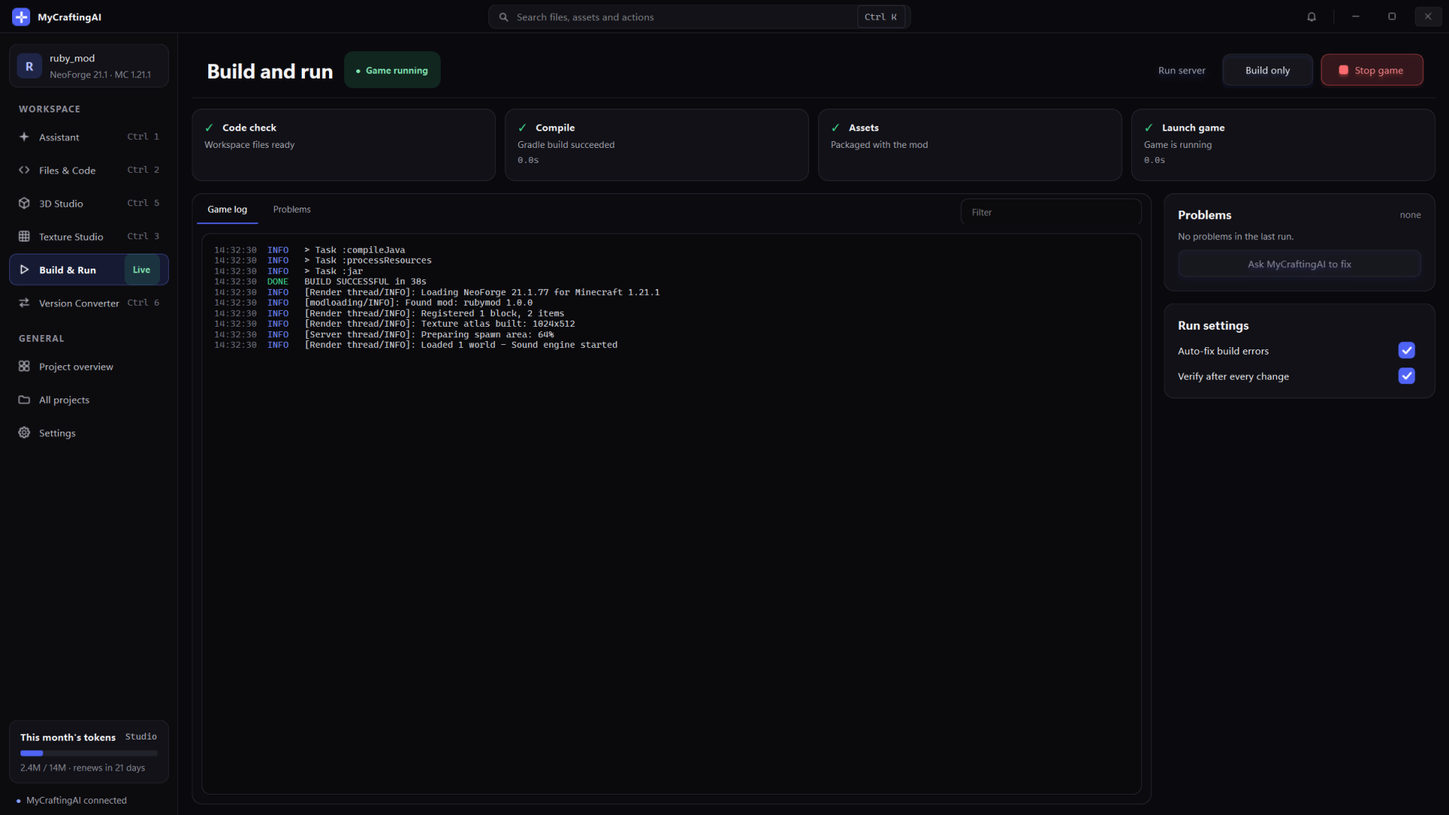
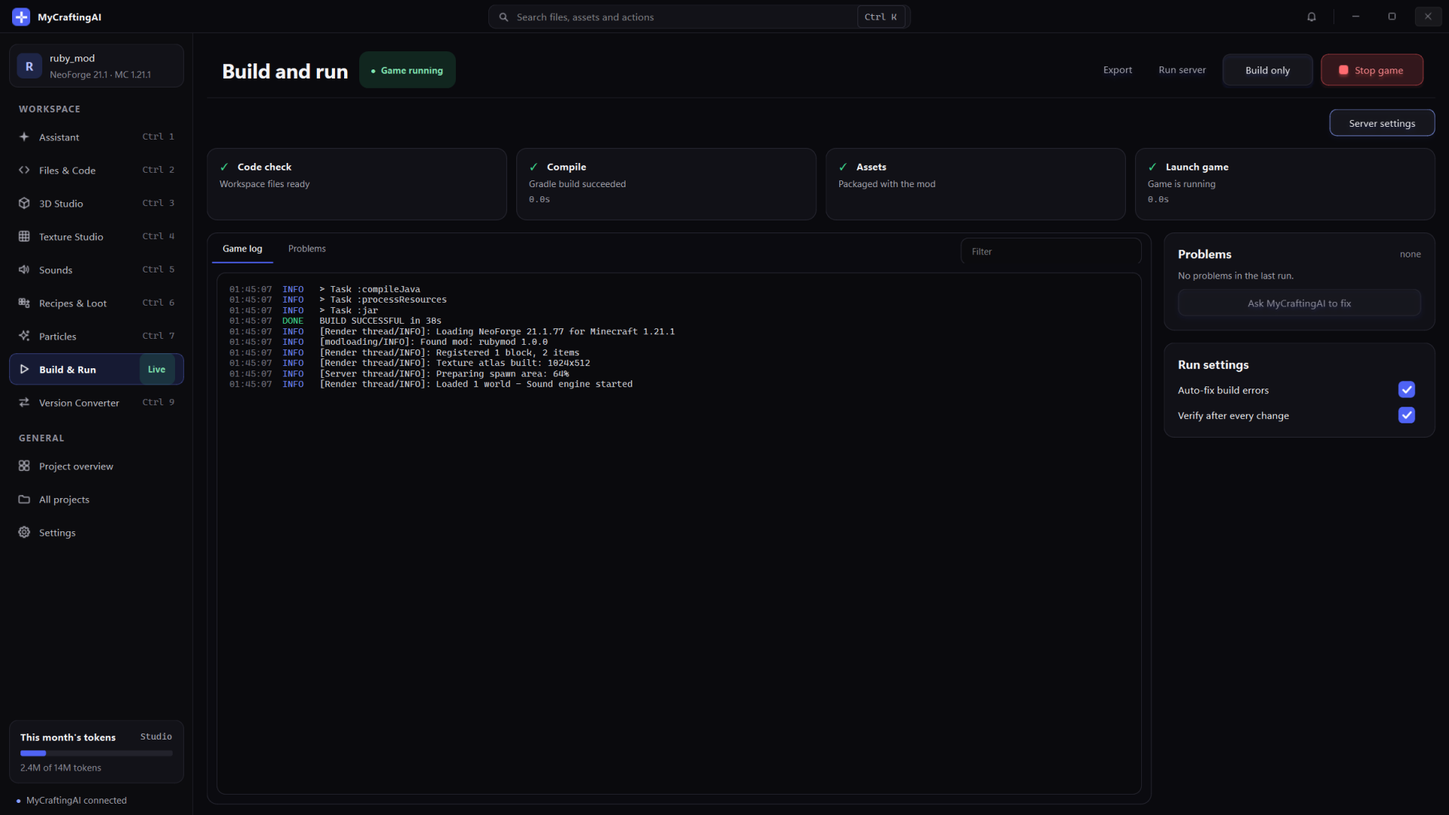
MyCraftingAI 1.1.1 - website update

diff --git a/index.html b/index.html
@@ -22,7 +22,7 @@
     "description": "Windows desktop app and AI assistant for Minecraft modders: writes Java for Forge, NeoForge and Fabric, paints textures, builds GeckoLib 3D models, converts mods between loaders and versions and runs the mod with Gradle.",
     "applicationCategory": "DeveloperApplication",
     "operatingSystem": "Windows 10, Windows 11 (64-bit)",
-    "softwareVersion": "1.1.0",
+    "softwareVersion": "1.1.1",
     "url": "https://mycraftingai.com/",
     "downloadUrl": "https://mycraftingai.com/download.html",
     "screenshot": "https://mycraftingai.com/assets/img/assistant.png",
@@ -130,39 +130,55 @@
       <div class="wrap">
         <div class="section-head reveal">
           <span class="eyebrow">Inside the app</span>
-          <h2>Six workspaces, one project.</h2>
+          <h2>Nine workspaces, one project.</h2>
           <p>Screens straight from the desktop app. Everything works on files in your own project folder, so you can open them in any editor too.</p>
         </div>
         <div class="tour reveal">
           <div class="tour-tabs" role="tablist" aria-label="App workspaces">
-            <button class="tour-tab" role="tab" aria-selected="true" data-shot="assets/img/assistant.png?v=20261124" data-alt="Mod Assistant with a finished request and the list of changed files">
+            <button class="tour-tab" role="tab" aria-selected="true" data-shot="assets/img/assistant.png?v=20261126" data-alt="Mod Assistant with a finished request and the list of changed files">
               <h3>Mod Assistant <span class="k">Ctrl 1</span></h3>
               <p>Chat with the assistant. Every answer ends with the files it changed, so you can review, undo, or build right away.</p>
             </button>
-            <button class="tour-tab" role="tab" aria-selected="false" data-shot="assets/img/files.png?v=20261124" data-alt="Files and Code view with the project tree and Java editor">
+            <button class="tour-tab" role="tab" aria-selected="false" data-shot="assets/img/files.png?v=20261126" data-alt="Files and Code view with the project tree and Java editor">
               <h3>Files &amp; Code <span class="k">Ctrl 2</span></h3>
               <p>A real editor with tabs, syntax colours and a project tree. Rename, copy, paste, or send files to the Recycle Bin.</p>
             </button>
-            <button class="tour-tab" role="tab" aria-selected="false" data-shot="assets/img/3d-studio.png?v=20261124" data-alt="3D Studio showing a GeckoLib fire dragon model playing its fly animation">
-              <h3>3D Studio <span class="lock" title="Included in the Studio plan.">Studio</span> <span class="k">Ctrl 5</span></h3>
+            <button class="tour-tab" role="tab" aria-selected="false" data-shot="assets/img/3d-studio.png?v=20261126" data-alt="3D Studio showing a GeckoLib fire dragon model playing its fly animation">
+              <h3>3D Studio <span class="lock" title="Included in the Studio plan.">Studio</span> <span class="k">Ctrl 3</span></h3>
               <p>Describe a mob and how it moves. The AI builds a GeckoLib model with bones and animations, and you watch them play before connecting it to your code.</p>
             </button>
-            <button class="tour-tab" role="tab" aria-selected="false" data-shot="assets/img/texture-studio.png?v=20261124" data-alt="Texture Studio with a 16 by 16 ruby gem on the pixel canvas">
-              <h3>Texture Studio <span class="lock" title="Included in Builder and up. On Free, unlock 5 minutes with a short ad.">Builder+</span> <span class="k">Ctrl 3</span></h3>
+            <button class="tour-tab" role="tab" aria-selected="false" data-shot="assets/img/3d-weapons.png?v=20261126" data-alt="3D Studio showing a ruby longsword held by a player mannequin">
+              <h3>3D weapons &amp; armor <span class="lock" title="Included in the Studio plan.">Studio</span> <span class="k">Ctrl 3</span></h3>
+              <p>Swords, tools, guns and armor sets in 3D. Every position - in the hand, first person, the inventory and on the ground - is set for you and shown on a player before you use it.</p>
+            </button>
+            <button class="tour-tab" role="tab" aria-selected="false" data-shot="assets/img/texture-studio.png?v=20261126" data-alt="Texture Studio with a ruby sword on the pixel canvas">
+              <h3>Texture Studio <span class="lock" title="Included in Builder and up. On Free, unlock 5 minutes with a short ad.">Builder+</span> <span class="k">Ctrl 4</span></h3>
               <p>Paint 16x16 sprites by hand or describe them to the pixel-art AI. Turn the item in 3D to check it from every side.</p>
             </button>
-            <button class="tour-tab" role="tab" aria-selected="false" data-shot="assets/img/build-run.png?v=20261124" data-alt="Build and Run page with the compile pipeline and game log">
-              <h3>Build &amp; Run <span class="k">Ctrl 4</span></h3>
-              <p>Compile with Gradle and launch the dev client in one click. If the build fails, the errors go straight back to the assistant. <b>Export</b> saves the ready-to-play .jar or the project files as a ZIP.</p>
+            <button class="tour-tab" role="tab" aria-selected="false" data-shot="assets/img/sounds.png?v=20261126" data-alt="Sounds page with a golem's sounds, the sound shape sliders and the Minecraft sound library">
+              <h3>Sounds <span class="lock" title="Included in Builder and up.">Builder+</span> <span class="k">Ctrl 5</span></h3>
+              <p>Every sound your mobs and items need, filled in with fitting Minecraft sounds. Listen to all 1,968 of them, shape the tone, loudness and range, or import your own.</p>
             </button>
-            <button class="tour-tab" role="tab" aria-selected="false" data-shot="assets/img/version-converter.png?v=20261124" data-alt="Version Converter converting a NeoForge 1.21.1 mod to Fabric, Forge and NeoForge versions with a token estimate">
-              <h3>Version Converter <span class="lock" title="Included in the Studio plan.">Studio</span> <span class="k">Ctrl 6</span></h3>
+            <button class="tour-tab" role="tab" aria-selected="false" data-shot="assets/img/recipes.png?v=20261126" data-alt="Recipes and Loot page with a ruby sword crafting recipe">
+              <h3>Recipes &amp; Loot <span class="lock" title="Included in Builder and up.">Builder+</span> <span class="k">Ctrl 6</span></h3>
+              <p>A visual crafting table and loot-table builder with your mod's items and every Minecraft item. Written in your Minecraft version's exact format - no code needed.</p>
+            </button>
+            <button class="tour-tab" role="tab" aria-selected="false" data-shot="assets/img/particles.png?v=20261126" data-alt="Particles page with a glowing sword-swing trail in the live preview">
+              <h3>Particles <span class="lock" title="Included in the Studio plan.">Studio</span> <span class="k">Ctrl 7</span></h3>
+              <p>Design sparks, swing trails, shockwaves, spirals, auras and explosions with a live preview, then attach them to an item, a mob or a projectile.</p>
+            </button>
+            <button class="tour-tab" role="tab" aria-selected="false" data-shot="assets/img/build-run.png?v=20261126" data-alt="Build and Run page with the compile pipeline and game log">
+              <h3>Build &amp; Run <span class="k">Ctrl 8</span></h3>
+              <p>Compile with Gradle and launch the dev client in one click. If the build fails, the errors go straight back to the assistant. Run a test server with its addresses, admins and offline players. <b>Export</b> saves the ready-to-play .jar or the project files as a ZIP.</p>
+            </button>
+            <button class="tour-tab" role="tab" aria-selected="false" data-shot="assets/img/version-converter.png?v=20261126" data-alt="Version Converter converting a NeoForge 1.21.1 mod to Fabric, Forge and NeoForge versions with a token estimate">
+              <h3>Version Converter <span class="lock" title="Included in the Studio plan.">Studio</span> <span class="k">Ctrl 9</span></h3>
               <p>Point it at any Forge, NeoForge, Fabric or Quilt mod: it detects the loader and version, ports it to as many loaders and Minecraft versions as you pick - from 1.7.10 to the latest - and hands you a ready-to-build ZIP for each, with the token cost shown first. Then pick each version next to Run Mod to build and test it, one by one.</p>
             </button>
           </div>
           <figure class="shot" style="margin:0">
             <div class="shot-bar"><i></i><i></i><i></i></div>
-            <img id="tour-img" src="assets/img/assistant.png?v=20261124" width="1920" height="1080" alt="Mod Assistant with a finished request and the list of changed files" loading="lazy">
+            <img id="tour-img" src="assets/img/assistant.png?v=20261126" width="1920" height="1080" alt="Mod Assistant with a finished request and the list of changed files" loading="lazy">
           </figure>
         </div>
       </div>
@@ -332,7 +348,7 @@
           </details>
           <details>
             <summary>What can I do on the Free plan?</summary>
-            <div class="answer">Use the Mod Assistant, the code editor and project setup with 10,000 new tokens a day, in the fast None thinking mode. Build &amp; Run and Texture Studio are included from Builder up, and 3D Studio with Studio. On Free you can still use Build &amp; Run and Texture Studio: watch one short ad on our website for one Build &amp; Run, or for five minutes of Texture Studio. The app itself never shows ads.</div>
+            <div class="answer">Use the Mod Assistant, the code editor and project setup with 10,000 new tokens a day, in the fast None thinking mode. Build &amp; Run, Texture Studio, Sounds and Recipes &amp; Loot are included from Builder up, and 3D Studio and Particles with Studio. On Free you can still use Build &amp; Run and Texture Studio: watch one short ad on our website for one Build &amp; Run, or for five minutes of Texture Studio. The app itself never shows ads.</div>
           </details>
           <details>
             <summary>What are thinking modes?</summary>
@@ -347,8 +363,16 @@
             <div class="answer">Press <b>Export</b> next to Run Mod (or on the Build &amp; Run page). Choose <b>Mod file (.jar)</b> - the app builds it with Gradle - or <b>Project files (.zip)</b> with the code, textures and build files. If your mod has converted versions, tick the ones you want or <b>All versions</b>; several versions are saved together in one ZIP. Then pick the folder to save to. Everything is built on your PC; nothing is uploaded.</div>
           </details>
           <details>
-            <summary>Which plan includes 3D Studio and the Version Converter?</summary>
-            <div class="answer">3D Studio (GeckoLib models and animations for your mobs) and the Version Converter are part of the Studio plan. Builder and Pro include everything else: the Mod Assistant, Texture Studio, Build &amp; Run and attachments, with Pro adding the High thinking mode.</div>
+            <summary>Which plan includes 3D Studio, Particles and the Version Converter?</summary>
+            <div class="answer">3D Studio (GeckoLib mobs and animations, 3D weapons, tools, guns and armor), Particles and the Version Converter are part of the Studio plan. Builder and Pro include everything else: the Mod Assistant, Texture Studio, Sounds, Recipes &amp; Loot, Build &amp; Run with the test server, and attachments, with Pro adding the High thinking mode.</div>
+          </details>
+          <details>
+            <summary>Where do my mod's sounds come from?</summary>
+            <div class="answer">When the Assistant adds a mob or a sound, the <b>Sounds</b> page fills it in with a fitting Minecraft sound - a golem gets golem sounds, a gun gets a shot - so nothing is silent. You can pick any of the 1,968 Minecraft sounds instead (listen first), import your own .ogg, and shape each one: tone and speed, loudness, how far it carries, how often each variant plays and how much it varies. Your mod refers to Minecraft's sounds by name; it never contains Mojang's sound files. Then <b>Connect sounds to the code</b> and the Assistant hooks them up.</div>
+          </details>
+          <details>
+            <summary>Can I run a server to test with friends?</summary>
+            <div class="answer">Yes. On <b>Build &amp; Run</b>, open <b>Server settings</b>: you see the address for this PC and for your local network, and you can set the port, allow offline players (needed for the development client), add admins, and choose game mode, difficulty, PvP and more. Minecraft's own EULA is asked once - you agree to it yourself - and then <b>Run server</b> starts it. To let friends join over the internet, forward the port on your router.</div>
           </details>
           <details>
             <summary>What does "new tokens" mean on Free?</summary>

diff --git a/about.html b/about.html
@@ -57,7 +57,7 @@
         "applicationCategory": "DeveloperApplication",
         "applicationSubCategory": "Minecraft mod development",
         "operatingSystem": "Windows 10, Windows 11 (64-bit)",
-        "softwareVersion": "1.1.0",
+        "softwareVersion": "1.1.1",
         "url": "https://mycraftingai.com/",
         "downloadUrl": "https://mycraftingai.com/download.html",
         "installUrl": "https://mycraftingai.com/download.html",
@@ -66,11 +66,20 @@
           "https://mycraftingai.com/assets/img/3d-studio.png",
           "https://mycraftingai.com/assets/img/texture-studio.png",
           "https://mycraftingai.com/assets/img/version-converter.png",
-          "https://mycraftingai.com/assets/img/build-run.png"
+          "https://mycraftingai.com/assets/img/build-run.png",
+          "https://mycraftingai.com/assets/img/3d-weapons.png",
+          "https://mycraftingai.com/assets/img/sounds.png",
+          "https://mycraftingai.com/assets/img/recipes.png",
+          "https://mycraftingai.com/assets/img/particles.png"
         ],
         "featureList": [
           "AI Mod Assistant that writes and edits Java code for Forge, NeoForge and Fabric",
           "3D Studio: GeckoLib entity models, bones and animations from a description",
+          "3D weapons, tools and guns with hand, inventory and ground positions, and GeckoLib 3D armor sets",
+          "Sounds: every mob and item sound with all Minecraft sounds as defaults, or your own .ogg files",
+          "Recipes & Loot: visual crafting, smelting and stonecutter recipes and block and mob loot tables",
+          "Particles: custom particles, trails, rings, auras and explosions with a live preview",
+          "Test server settings: addresses, port, admins and offline players",
           "Texture Studio with a pixel-art AI for 16x16 to 64x64 textures",
           "Version Converter: port mods between Forge, NeoForge, Fabric and Quilt and between Minecraft versions such as 1.12.2 or 1.16.5 to 1.21.1 and newer",
           "Smart project scaffolding from the official MDK and example-mod templates",
@@ -154,7 +163,7 @@
       <div class="wrap">
         <div class="section-head">
           <span class="eyebrow">Core features</span>
-          <h2>Six workspaces, one project.</h2>
+          <h2>Nine workspaces, one project.</h2>
           <p>Every workspace works on the same project folder, so you can switch between them - or open the files in any other editor - at any time.</p>
         </div>
         <div class="ws-grid">
@@ -162,37 +171,55 @@
             <div class="ws-top"><h3>Mod Assistant (chat)</h3><span class="tag">All plans</span></div>
             <p>Chat with an AI that reads your project before it writes. Each answer lists the files it created or changed, so you can review, undo or build straight away.</p>
             <ul><li>Items, blocks, ores, tools, armour, mobs, recipes, loot and world generation</li><li>Version-aware: uses the exact APIs of your loader and Minecraft version</li><li>Attach screenshots or reference images</li></ul>
-            <img src="assets/img/assistant.png?v=20261124" alt="MyCraftingAI Mod Assistant with a finished request and the list of changed files" loading="lazy" width="1920" height="1080">
+            <img src="assets/img/assistant.png?v=20261126" alt="MyCraftingAI Mod Assistant with a finished request and the list of changed files" loading="lazy" width="1920" height="1080">
           </article>
           <article class="ws-card">
             <div class="ws-top"><h3>3D Studio</h3><span class="tag studio">Studio plan</span></div>
-            <p>Describe a mob and how it moves. The AI builds a GeckoLib model with bones, pivots and animations; watch every animation play in the app, then connect it to your code with one click.</p>
-            <ul><li>GeckoLib release matched to your loader and version automatically</li><li>Walk, idle, attack and fly animations from a sentence</li><li>Paint textures directly on the model's UV layout</li></ul>
-            <img src="assets/img/3d-studio.png?v=20261124" alt="MyCraftingAI 3D Studio showing a GeckoLib fire dragon model playing its fly animation" loading="lazy" width="1920" height="1080">
+            <p>Describe a mob and how it moves. The AI builds a GeckoLib model with bones, pivots and animations; watch every animation play in the app, then connect it to your code with one click. Weapons, tools, guns and armor sets too.</p>
+            <ul><li>GeckoLib release matched to your loader and version automatically</li><li>Walk, idle, attack and fly animations from a sentence - add new ones like "aim a bow" any time</li><li>3D weapons and guns placed right in the hand, the inventory and on the ground; 3D armor on a player mannequin</li><li>Glowing eyes, fire, smoke and other effects, previewed live</li></ul>
+            <img src="assets/img/3d-studio.png?v=20261126" alt="MyCraftingAI 3D Studio showing a GeckoLib fire dragon model playing its fly animation" loading="lazy" width="1920" height="1080">
           </article>
           <article class="ws-card">
             <div class="ws-top"><h3>Texture Studio</h3><span class="tag">Builder and up</span></div>
             <p>Paint item, block and entity textures by hand, or describe them to the pixel-art AI. Turn the result in 3D to check it from every side.</p>
-            <ul><li>16x16 to 64x64 pixel art at the size the game expects</li><li>Palette, grid, zoom and undo</li><li>Mobs shown on their real 3D model</li></ul>
-            <img src="assets/img/texture-studio.png?v=20261124" alt="MyCraftingAI Texture Studio with a 16 by 16 ruby gem on the pixel canvas" loading="lazy" width="1920" height="1080">
+            <ul><li>16x16 to 64x64 pixel art at the size the game expects</li><li>Every asset arrives with an art brief from the Assistant - press Generate, pick Fast, Normal or Max detail</li><li>Show GUI buttons: slots, buttons and bars outlined where your code draws them</li><li>Mobs shown on their real 3D model</li></ul>
+            <img src="assets/img/texture-studio.png?v=20261126" alt="MyCraftingAI Texture Studio with a 16 by 16 ruby gem on the pixel canvas" loading="lazy" width="1920" height="1080">
           </article>
           <article class="ws-card">
             <div class="ws-top"><h3>Version Converter</h3><span class="tag studio">Studio plan</span></div>
             <p>Point it at a mod folder: it detects the loader and Minecraft version, ports the mod to every loader and version you pick, and saves each one as a ready-to-build ZIP with a conversion report.</p>
             <ul><li>From Forge, NeoForge, Fabric and Quilt mods of any version</li><li>To Forge 1.7.10+, NeoForge 1.20.1+ and Fabric 1.14+ - e.g. 1.12.2 or 1.16.5 to 1.21.1</li><li>Predictable token estimate before it starts; compile check with 1 to unlimited repair rounds</li><li>Every version kept as a project: pick it next to Run Mod and test it one by one</li></ul>
-            <img src="assets/img/version-converter.png?v=20261124" alt="MyCraftingAI Version Converter converting a mod to several loaders and Minecraft versions with a token estimate" loading="lazy" width="1920" height="1080">
+            <img src="assets/img/version-converter.png?v=20261126" alt="MyCraftingAI Version Converter converting a mod to several loaders and Minecraft versions with a token estimate" loading="lazy" width="1920" height="1080">
           </article>
           <article class="ws-card">
             <div class="ws-top"><h3>Project Manager</h3><span class="tag">All plans</span></div>
             <p>Create a new mod or open an existing one. The start screen downloads the official template for the loader and version you choose and renames it to your mod, then the overview and code editor keep the whole project in view.</p>
             <ul><li>Smart scaffolding: <code>com.my_mod</code>, never <code>com.example</code></li><li>Project overview with loader, version and Java detection</li><li>Files &amp; Code editor with tabs, syntax colours and a project tree</li></ul>
-            <img src="assets/img/files.png?v=20261124" alt="MyCraftingAI Files and Code view with the project tree and Java editor" loading="lazy" width="1920" height="1080">
+            <img src="assets/img/files.png?v=20261126" alt="MyCraftingAI Files and Code view with the project tree and Java editor" loading="lazy" width="1920" height="1080">
           </article>
           <article class="ws-card">
             <div class="ws-top"><h3>Build &amp; Run</h3><span class="tag">All plans</span></div>
             <p>Compile with Gradle and launch the Minecraft development client in one click. Failed builds go back to the assistant to fix, as many rounds as you allow, and a load check confirms the game really starts with your mod.</p>
-            <ul><li>Right Java (8, 17, 21 or 25) chosen or downloaded automatically</li><li>Setup problems explained instead of sent to the AI</li><li>Export: the ready-to-play .jar or the project as a ZIP - one version or all</li></ul>
-            <img src="assets/img/build-run.png?v=20261124" alt="MyCraftingAI Build and Run page with the compile pipeline and game log" loading="lazy" width="1920" height="1080">
+            <ul><li>Right Java (8, 17, 21 or 25) chosen or downloaded automatically</li><li>Setup problems explained instead of sent to the AI</li><li>Test server with its addresses, port, admins and offline players</li><li>Export: the ready-to-play .jar or the project as a ZIP - one version or all</li></ul>
+            <img src="assets/img/build-run.png?v=20261126" alt="MyCraftingAI Build and Run page with the compile pipeline and game log" loading="lazy" width="1920" height="1080">
+          </article>
+          <article class="ws-card">
+            <div class="ws-top"><h3>Sounds</h3><span class="tag">Builder and up</span></div>
+            <p>Every sound your mod needs in one list: each mob's ambient, hurt, death and step sounds and every sound event in your code. New mobs arrive with fitting Minecraft sounds, so nothing is silent.</p>
+            <ul><li>All 1,968 Minecraft sounds to listen to and pick from</li><li>Import your own .ogg, set volume and pitch</li><li>One click connects the sounds to your code</li></ul>
+            <img src="assets/img/sounds.png?v=20261126" alt="MyCraftingAI Sounds page with a golem's sounds, the sound shape sliders and the Minecraft sound library" loading="lazy" width="1920" height="1080">
+          </article>
+          <article class="ws-card">
+            <div class="ws-top"><h3>Recipes &amp; Loot</h3><span class="tag">Builder and up</span></div>
+            <p>A visual crafting table and loot-table builder. Pick your mod's items or any Minecraft item, click the slots, save - the files are written in the exact format of your Minecraft version.</p>
+            <ul><li>Shaped, shapeless, furnace, blast furnace, smoker, campfire and stonecutter recipes</li><li>Block drops with Silk Touch and Fortune, mob drops with Looting and chances</li><li>No code and no AI tokens needed</li></ul>
+            <img src="assets/img/recipes.png?v=20261126" alt="MyCraftingAI Recipes and Loot page with a ruby sword crafting recipe" loading="lazy" width="1920" height="1080">
+          </article>
+          <article class="ws-card">
+            <div class="ws-top"><h3>Particles</h3><span class="tag studio">Studio plan</span></div>
+            <p>Design particles, sword trails, shockwave rings, spirals, auras and explosions with a live preview, then attach them to an item, a mob or a projectile.</p>
+            <ul><li>Shape, sprite, colour and opacity fades, size, lifetime, physics and glow</li><li>Preview in real time without spending tokens</li><li>Connect to code registers the particle and spawns it for every player</li></ul>
+            <img src="assets/img/particles.png?v=20261126" alt="MyCraftingAI Particles page with a glowing sword-swing trail in the live preview" loading="lazy" width="1920" height="1080">
           </article>
         </div>
       </div>

diff --git a/terms.html b/terms.html
@@ -44,7 +44,7 @@
       <article class="prose">
         <span class="eyebrow">Legal</span>
         <h1>Terms of Service</h1>
-        <p class="updated">Effective 14 November 2026</p>
+        <p class="updated">Effective 15 November 2026</p>
 
         <div class="legal-summary">
           <b>The short version</b>
@@ -95,7 +95,9 @@
           <li><b>Thinking modes.</b> The assistant offers thinking modes (None, Low, Normal and High) that set how much the AI reasons before it answers. The modes available depend on your plan. Deeper modes usually take longer and use more tokens from your allowance. No mode guarantees a correct or complete answer.</li>
           <li><b>AI output.</b> Answers, code and images are generated automatically and may be incomplete, wrong, insecure or similar to output given to other people. They aren't professional advice. You are responsible for reviewing, testing and deciding how to use anything the Service produces.</li>
           <li><b>Busy periods and priority.</b> When demand is high or our AI providers ask us to slow down, AI requests may wait in a queue and be retried automatically. The app shows your place in line and an estimated wait, which is only a guide. Plans with priority access are moved ahead in the queue; requests on other plans keep being served and are never pushed back indefinitely. A request that can't start within the maximum waiting time is cancelled and can be sent again. Waiting and retries don't use tokens from your allowance. To keep the Service stable for everyone, we may adjust rate limits, queue rules and how many requests run at once.</li>
-          <li><b>3D Studio and Texture Studio.</b> The 3D Studio creates models, animations and starter textures for the mobs in your project. To make them work, the app may add a matching version of the third-party library GeckoLib to your project's build files and mod metadata, and shows you which files it changed. Generated models, animations and textures are AI output as described below.</li>
+          <li><b>3D Studio and Texture Studio.</b> The 3D Studio creates models, animations and starter textures for the mobs, weapons, tools, guns and armor in your project. To make them work, the app may add a matching version of the third-party library GeckoLib to your project's build files and mod metadata, and shows you which files it changed. Generated models, animations and textures are AI output as described below.</li>
+          <li><b>Sounds, Recipes &amp; Loot and Particles.</b> These editors write data files into your project (sounds.json, recipes, loot tables, particle definitions and sprites). Sounds can refer to Minecraft's own sounds by name; your mod does not contain or distribute Minecraft's sound files. To let you listen to them, the app plays them from the Minecraft installation on your computer or, if a sound isn't there, downloads that sound from Minecraft's official servers for preview only. Sounds you import must be yours or used with permission. Recipes, loot tables and particles you create are your content.</li>
+          <li><b>Test server.</b> Server settings change your project's test-server files. A Minecraft server only starts after you agree to Minecraft's own End User License Agreement in that dialog; the app never agrees on your behalf. Running a server reachable from the internet is your responsibility.</li>
           <li><b>Version Converter.</b> The Version Converter ports a mod you choose to other mod loaders and Minecraft versions. It reads the mod's folder (it never changes it), downloads the official template for each target, sends the mod's source code and data files to the AI to be converted, and saves each result on your computer - as a ZIP and as a project folder you can build and test in the app - with a report of anything to check. Conversion is automated and can't guarantee that every feature works the same, especially across large version gaps (for example 1.12.2 to 1.21.1) where Minecraft's own APIs changed: build and test each version before you use or share it. Templates for old Minecraft versions use the build tools of their time (such as Java 8 and older Gradle versions), which may need extra setup on your computer. The estimated token count is a forecast; the tokens actually used are counted against your allowance.
             <ul>
               <li><b>Your rights.</b> Only convert mods you made or that you have the right to modify and port, and follow the original mod's licence when you share a converted version. Don't use the converter to copy or redistribute other people's work without permission.</li>

diff --git a/assets/js/admin.js b/assets/js/admin.js
@@ -1876,7 +1876,7 @@
     ads: "ads adsense unlock rewarded funnel", revenue: "subscriptions money revenue mrr lemon squeezy billing", gifts: "token gifts bonus free tokens",
     users: "accounts people search customers", messages: "email broadcast send newsletter mailbox", settings: "live maintenance pause sign-ups theme season promotion discount sale announcement banner terms privacy legal",
     server: "limits rate limit queue priority head start security sessions lockout model routing provider address timeout email",
-    pricing: "plans prices price subscription builder pro studio enterprise allowance monthly first month tokens features 3d studio version converter thinking high top-up topup packages discount percent fee lemon squeezy sales",
+    pricing: "plans prices price subscription builder pro studio enterprise allowance monthly first month tokens features 3d studio version converter sounds recipes loot particles thinking high top-up topup packages discount percent fee lemon squeezy sales",
     activity: "log audit history changes", system: "keys api key provider balance queue health mailboxes plans updates deepseek"
   };
   function findActions() {
@@ -1887,7 +1887,7 @@
       { group: "Actions", icon: "!", title: "Pause AI for everyone (maintenance)", sub: "Live settings · service switches", words: "maintenance emergency stop", run: function () { go("settings"); flashWhenReady("[data-cfg-switches]", true); } },
       { group: "Actions", icon: "$", title: "Check AI provider balance", sub: "System · remaining credit", words: "balance credit top up money", run: function () { go("system"); flashWhenReady("[data-balance-keys]", true); loadBalance(true); } },
       { group: "Actions", icon: "★", title: "Give tokens", sub: "Token gifts · new gift", words: "gift bonus free tokens", run: function () { go("gifts"); } },
-      { group: "Actions", icon: "$", title: "Change plan prices & allowances", sub: "Plans & pricing · prices, monthly tokens, features", words: "price plan builder pro studio monthly tokens features 3d thinking", run: function () { go("pricing"); } },
+      { group: "Actions", icon: "$", title: "Change plan prices & allowances", sub: "Plans & pricing · prices, monthly tokens, features", words: "price plan builder pro studio monthly tokens features 3d sounds recipes particles thinking", run: function () { go("pricing"); } },
       { group: "Actions", icon: "+", title: "Edit token top-up prices", sub: "Plans & pricing · price per million, fee, packages", words: "top-up topup packs fee processing buy tokens", run: function () { go("pricing"); flashWhenReady(".ad-pr-topup"); } },
       { group: "Actions", icon: "✉", title: "Email users", sub: "Messages · direct or broadcast", words: "email send message broadcast", run: function () { go("messages"); } },
       { group: "Actions", icon: "↓", title: "Export users as CSV", sub: "Users · current filter", words: "export download csv", run: function () { go("users"); setTimeout(function () { exportCsv($("[data-export]")); }, 80); } }

diff --git a/assets/js/plans.js b/assets/js/plans.js
@@ -52,6 +52,8 @@ window.MCA_PLANS = {
         "files",
         "overview",
         "textures",
+        "sounds",
+        "recipes",
         "build",
         "attachments",
         "priority"
@@ -60,9 +62,9 @@ window.MCA_PLANS = {
       "highlights": [
         "2,000,000 tokens in your first month",
         "1,500,000 tokens every month after",
-        "Every tool except 3D Studio and Version Converter, no ads",
+        "Every tool except 3D Studio, Particles and Version Converter, no ads",
         "Thinking modes: None, Low and Normal",
-        "Texture Studio and Build & Run"
+        "Texture Studio, Sounds, Recipes & Loot and Build & Run"
       ],
       "popular": false,
       "countsCached": true,
@@ -88,6 +90,8 @@ window.MCA_PLANS = {
         "files",
         "overview",
         "textures",
+        "sounds",
+        "recipes",
         "build",
         "attachments",
         "priority"
@@ -98,7 +102,7 @@ window.MCA_PLANS = {
         "3,000,000 tokens every month after",
         "Everything in Builder",
         "All thinking modes, including High",
-        "3D Studio and Version Converter are not included"
+        "3D Studio, Particles and Version Converter are not included"
       ],
       "popular": true,
       "countsCached": true,
@@ -127,6 +131,9 @@ window.MCA_PLANS = {
         "textures",
         "models",
         "convert",
+        "sounds",
+        "recipes",
+        "particles",
         "build",
         "attachments",
         "priority"
@@ -136,7 +143,8 @@ window.MCA_PLANS = {
         "14,000,000 tokens in your first month",
         "7,000,000 tokens every month after",
         "Everything in Pro",
-        "3D Studio: GeckoLib models and animations",
+        "3D Studio: mobs, animations, 3D weapons and armor",
+        "Particles: custom particles, trails and effects",
         "Version Converter: any loader, any Minecraft version",
         "Room for large multi-mod projects"
       ],
@@ -167,6 +175,9 @@ window.MCA_PLANS = {
         "textures",
         "models",
         "convert",
+        "sounds",
+        "recipes",
+        "particles",
         "build",
         "attachments",
         "priority"
@@ -194,8 +205,11 @@ window.MCA_PLANS = {
     "files": "Files & Code editor",
     "overview": "Project overview & MDK setup",
     "textures": "Texture Studio & pixel-art AI",
-    "models": "3D Studio (GeckoLib models & animations)",
+    "models": "3D Studio (GeckoLib mobs, 3D weapons & armor)",
     "convert": "Version Converter (port mods to other loaders & versions)",
+    "sounds": "Sounds (every Minecraft sound, your own .ogg files)",
+    "recipes": "Recipes & Loot tables (visual editor)",
+    "particles": "Particles & trails (visual editor)",
     "build": "Build & Run (compile, launch, auto-fix)",
     "attachments": "Image & file attachments",
     "priority": "Priority queue at busy times"

diff --git a/privacy.html b/privacy.html
@@ -38,7 +38,7 @@
       <article class="prose">
         <span class="eyebrow">Legal</span>
         <h1>Privacy Policy</h1>
-        <p class="updated">Effective 14 November 2026</p>
+        <p class="updated">Effective 15 November 2026</p>
 
         <div class="legal-summary">
           <b>The short version</b>
@@ -76,6 +76,8 @@
           <li>We don't sell personal data, and we don't share your account details, prompts or projects with advertisers.</li>
           <li>The desktop app contains no ads and no advertising trackers. Advertising cookies can only appear on our download and unlock pages, as described in <a href="#advertising">Advertising</a>.</li>
           <li>We don't use your projects or prompts to advertise, and we don't sell them.</li>
+          <li><b>Tools that work only on your computer:</b> Sounds, Recipes &amp; Loot, Particles, the 3D Studio's weapon and armor positions, and Server settings write files into your project and never send them to us. Recipes &amp; Loot and Sounds read item icons and sounds from the Minecraft installation on your computer (read-only). Admin names you add to your test server are turned into IDs on your computer; the app doesn't look them up online.</li>
+          <li><b>Minecraft sound previews:</b> when a Minecraft sound you want to listen to isn't on your computer, the app downloads that one sound file from Minecraft's official asset servers (piston-meta.mojang.com and resources.download.minecraft.net, the same servers the Minecraft launcher uses) and keeps it in its own folder. No account details or project data are sent - only a standard request for that file, which includes your IP address as with any download.</li>
         </ul>
 
         <h2 id="use">4. How we use your data</h2>
